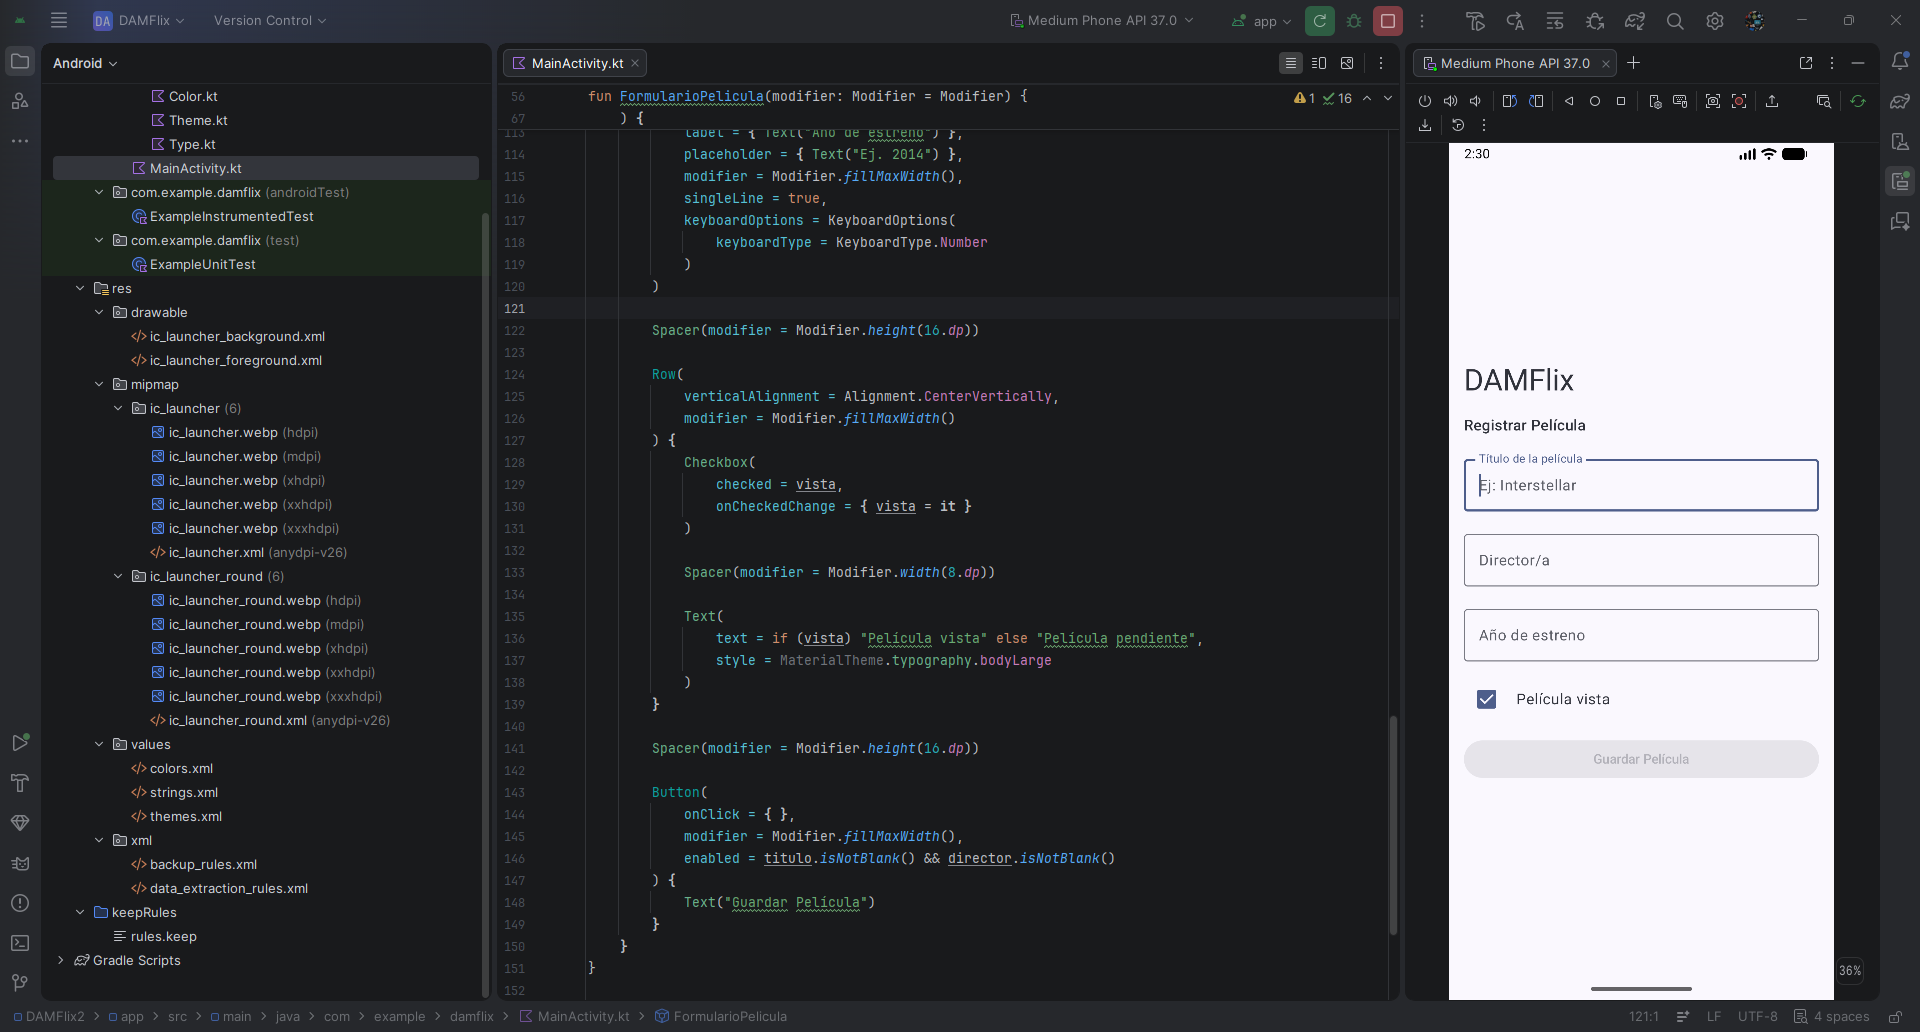
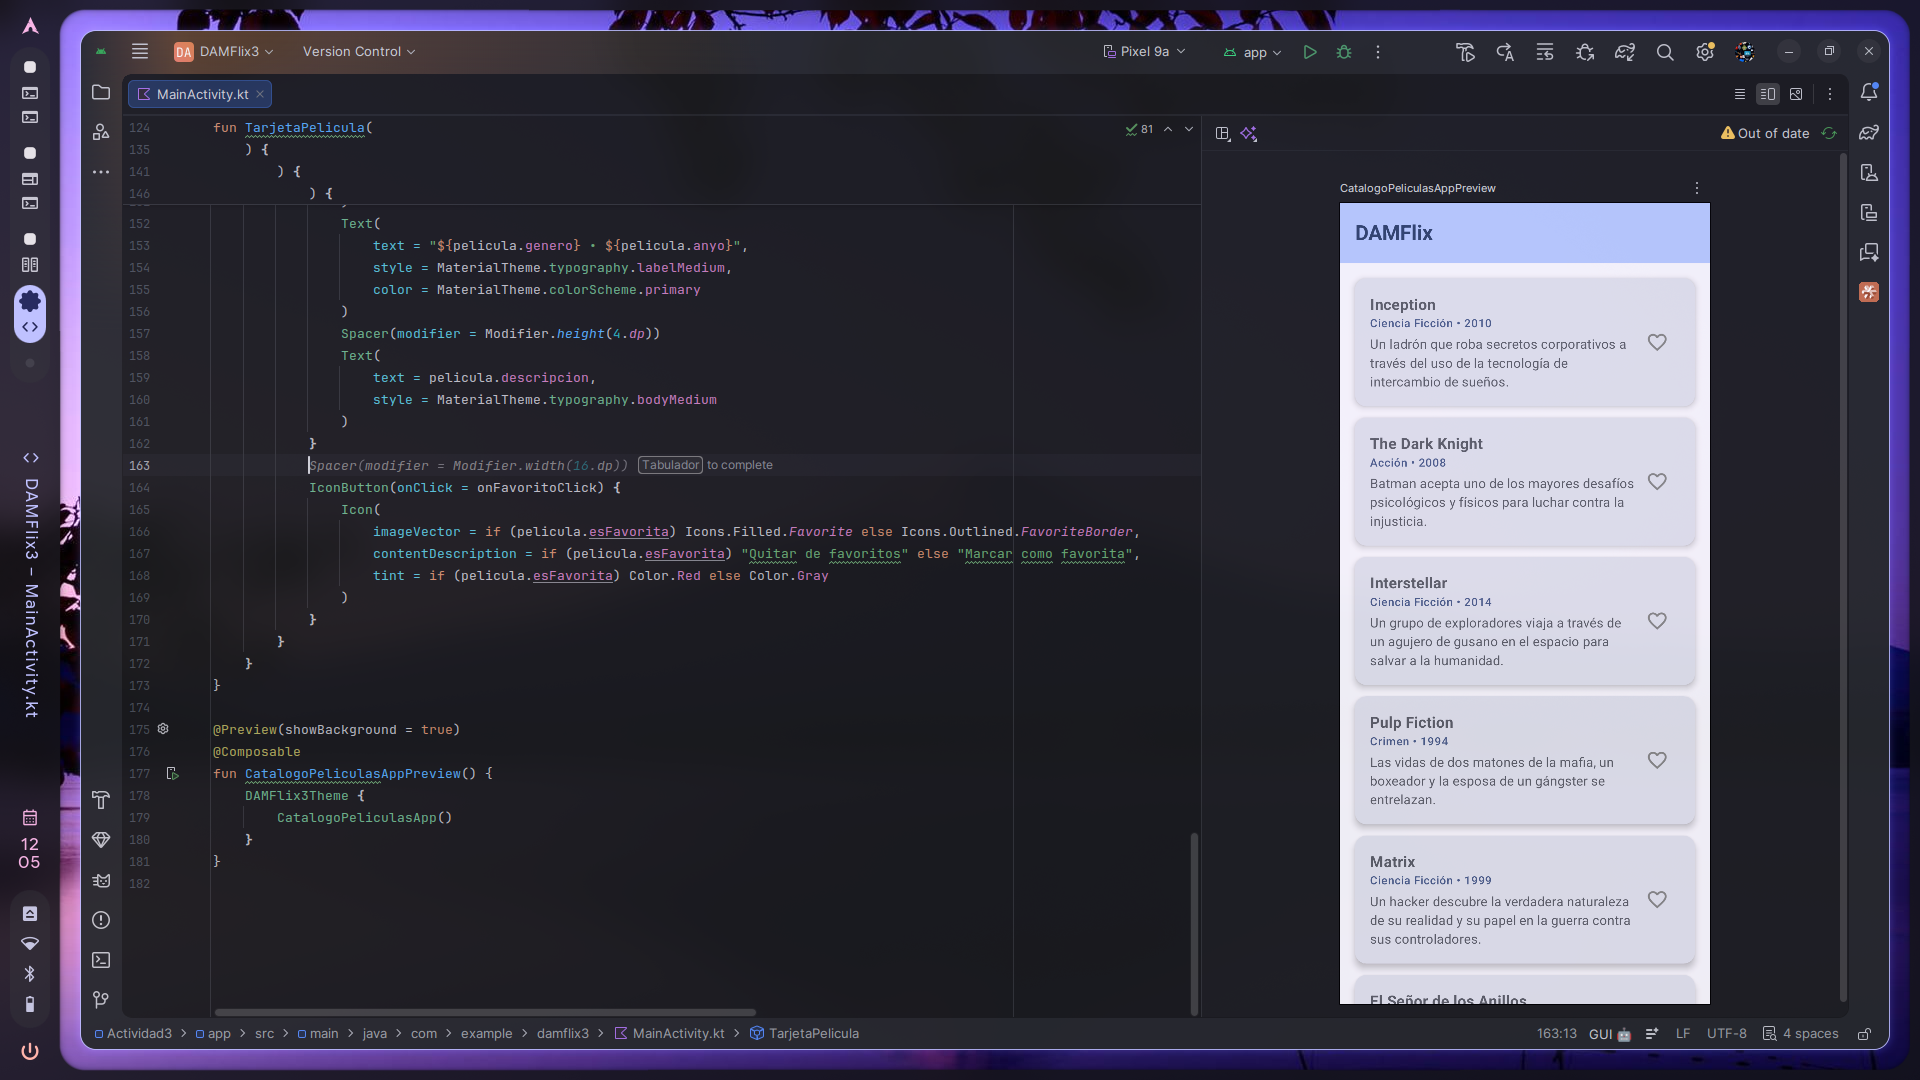
Parte 3: catálogo de películas con favoritos

diff --git a/app/src/main/java/com/example/damflix/MainActivity.kt b/app/src/main/java/com/example/damflix/MainActivity.kt
@@ -6,154 +6,176 @@ import androidx.activity.compose.setContent
 import androidx.activity.enableEdgeToEdge
 import androidx.compose.foundation.layout.Arrangement
 import androidx.compose.foundation.layout.Column
+import androidx.compose.foundation.layout.PaddingValues
 import androidx.compose.foundation.layout.Row
 import androidx.compose.foundation.layout.Spacer
 import androidx.compose.foundation.layout.fillMaxSize
 import androidx.compose.foundation.layout.fillMaxWidth
 import androidx.compose.foundation.layout.height
 import androidx.compose.foundation.layout.padding
-import androidx.compose.foundation.layout.width
-import androidx.compose.foundation.text.KeyboardOptions
-import androidx.compose.material3.Button
-import androidx.compose.material3.Checkbox
+import androidx.compose.foundation.lazy.LazyColumn
+import androidx.compose.foundation.lazy.items
+import androidx.compose.material.icons.Icons
+import androidx.compose.material.icons.filled.Favorite
+import androidx.compose.material.icons.outlined.FavoriteBorder
+import androidx.compose.material3.Card
+import androidx.compose.material3.CardDefaults
+import androidx.compose.material3.ExperimentalMaterial3Api
+import androidx.compose.material3.Icon
+import androidx.compose.material3.IconButton
 import androidx.compose.material3.MaterialTheme
-import androidx.compose.material3.MaterialTheme.typography
-import androidx.compose.material3.OutlinedTextField
 import androidx.compose.material3.Scaffold
 import androidx.compose.material3.Text
+import androidx.compose.material3.TopAppBar
+import androidx.compose.material3.TopAppBarDefaults
 import androidx.compose.runtime.Composable
-import androidx.compose.runtime.getValue
-import androidx.compose.runtime.mutableStateOf
+import androidx.compose.runtime.mutableStateListOf
 import androidx.compose.runtime.remember
-import androidx.compose.runtime.setValue
 import androidx.compose.ui.Alignment
 import androidx.compose.ui.Modifier
-import androidx.compose.ui.text.input.KeyboardType
+import androidx.compose.ui.graphics.Color
+import androidx.compose.ui.text.font.FontWeight
 import androidx.compose.ui.tooling.preview.Preview
 import androidx.compose.ui.unit.dp
 import com.example.damflix.ui.theme.DAMFlixTheme
+
+data class Pelicula(
+    val id: Int,
+    val titulo: String,
+    val genero: String,
+    val anyo: Int,
+    val descripcion: String,
+    var esFavorita: Boolean = false
+)
 
 class MainActivity : ComponentActivity() {
     override fun onCreate(savedInstanceState: Bundle?) {
         super.onCreate(savedInstanceState)
         enableEdgeToEdge()
-
         setContent {
             DAMFlixTheme {
-                Scaffold(
-                    modifier = Modifier.fillMaxSize()
-                ) { innerPadding ->
-                    FormularioPelicula(
-                        modifier = Modifier.padding(innerPadding)
-                    )
-                }
+                CatalogoPeliculasApp()
             }
         }
     }
 }
 
+@OptIn(ExperimentalMaterial3Api::class)
 @Composable
-fun FormularioPelicula(modifier: Modifier = Modifier) {
-    var titulo by remember { mutableStateOf("") }
-    var director by remember { mutableStateOf("") }
-    var anio by remember { mutableStateOf("") }
-    var vista by remember { mutableStateOf(false) }
-
-    Column(
-        modifier = modifier
-            .fillMaxSize()
-            .padding(16.dp),
-        verticalArrangement = Arrangement.Center
-    ) {
-        Text(
-            text = "DAMFlix",
-            style = typography.headlineLarge
+fun CatalogoPeliculasApp() {
+    val listaPeliculas = remember {
+        mutableStateListOf(
+            Pelicula(1, "Inception", "Ciencia Ficción", 2010, "Un ladrón que roba secretos corporativos a través del uso de la tecnología de intercambio de sueños."),
+            Pelicula(2, "The Dark Knight", "Acción", 2008, "Batman acepta uno de los mayores desafíos psicológicos y físicos para luchar contra la injusticia."),
+            Pelicula(3, "Interstellar", "Ciencia Ficción", 2014, "Un grupo de exploradores viaja a través de un agujero de gusano en el espacio para salvar a la humanidad."),
+            Pelicula(4, "Pulp Fiction", "Crimen", 1994, "Las vidas de dos matones de la mafia, un boxeador y la esposa de un gángster se entrelazan."),
+            Pelicula(5, "Matrix", "Ciencia Ficción", 1999, "Un hacker descubre la verdadera naturaleza de su realidad y su papel en la guerra contra sus controladores."),
+            Pelicula(6, "El Señor de los Anillos", "Fantasía", 2003, "Gandalf y Aragorn lideran el mundo de los hombres contra el ejército de Sauron."),
+            Pelicula(7, "Gladiator", "Acción", 2000, "Un antiguo general romano busca venganza contra el corrupto emperador que asesinó a su familia."),
+            Pelicula(8, "Avatar", "Ciencia Ficción", 2009, "Un marine parapléjico enviado al planeta Pandora se debate entre seguir órdenes o proteger su nuevo hogar.")
         )
+    }
 
-        Spacer(modifier = Modifier.height(16.dp))
-
-        Text(
-            text = "Registrar Película",
-            style = typography.titleMedium
-        )
-
-        Spacer(modifier = Modifier.height(16.dp))
-
-        OutlinedTextField(
-            value = titulo,
-            onValueChange = { titulo = it },
-            label = { Text("Título de la película") },
-            placeholder = { Text("Ej: Interstellar") },
-            modifier = Modifier.fillMaxWidth(),
-            singleLine = true
-        )
-
-        Spacer(modifier = Modifier.height(16.dp))
-
-        OutlinedTextField(
-            value = director,
-            onValueChange = { director = it },
-            label = { Text("Director/a") },
-            placeholder = { Text("Ej: Christopher Nolan") },
-            modifier = Modifier.fillMaxWidth(),
-            singleLine = true
-        )
-
-        Spacer(modifier = Modifier.height(16.dp))
-
-        OutlinedTextField(
-            value = anio,
-            onValueChange = { nuevoValor ->
-                if (nuevoValor.all { it.isDigit() } &&
-                    nuevoValor.length <= 4
-                ) {
-                    anio = nuevoValor
-                }
-            },
-            label = { Text("Año de estreno") },
-            placeholder = { Text("Ej. 2014") },
-            modifier = Modifier.fillMaxWidth(),
-            singleLine = true,
-            keyboardOptions = KeyboardOptions(
-                keyboardType = KeyboardType.Number
-            )
-        )
-
-        Spacer(modifier = Modifier.height(16.dp))
-
-        Row(
-            verticalAlignment = Alignment.CenterVertically,
-            modifier = Modifier.fillMaxWidth()
-        ) {
-            Checkbox(
-                checked = vista,
-                onCheckedChange = { vista = it }
-            )
-
-            Spacer(modifier = Modifier.width(8.dp))
-
-            Text(
-                text = if (vista) "Película vista" else "Película pendiente",
-                style = MaterialTheme.typography.bodyLarge
+    Scaffold(
+        topBar = {
+            TopAppBar(
+                title = {
+                    Text(
+                        text = "DAMFlix",
+                        fontWeight = FontWeight.Bold
+                    )
+                },
+                colors = TopAppBarDefaults.topAppBarColors(
+                    containerColor = MaterialTheme.colorScheme.primaryContainer,
+                    titleContentColor = MaterialTheme.colorScheme.onPrimaryContainer
+                )
             )
         }
-
-        Spacer(modifier = Modifier.height(16.dp))
-
-        Button(
-            onClick = { },
-            modifier = Modifier.fillMaxWidth(),
-            enabled = titulo.isNotBlank() && director.isNotBlank()
+    ) { paddingValores ->
+        LazyColumn(
+            modifier = Modifier
+                .fillMaxSize()
+                .padding(paddingValores),
+            contentPadding = PaddingValues(16.dp),
+            verticalArrangement = Arrangement.spacedBy(12.dp)
         ) {
-            Text("Guardar Película")
+            items(
+                items = listaPeliculas,
+                key = { pelicula -> pelicula.id }
+            ) { pelicula ->
+                TarjetaPelicula(
+                    pelicula = pelicula,
+                    onFavoritoClick = {
+                        val index = listaPeliculas.indexOfFirst { it.id == pelicula.id }
+                        if (index != -1) {
+                            listaPeliculas[index] = listaPeliculas[index].copy(
+                                esFavorita = !listaPeliculas[index].esFavorita
+                            )
+                        }
+                    }
+                )
+            }
+        }
+    }
+}
+
+
+@Composable
+fun TarjetaPelicula(
+    pelicula: Pelicula,
+    onFavoritoClick: () -> Unit,
+    modifier: Modifier = Modifier
+) {
+    Card(
+        modifier = modifier.fillMaxWidth(),
+        elevation = CardDefaults.cardElevation(defaultElevation = 4.dp),
+        colors = CardDefaults.cardColors(
+            containerColor = MaterialTheme.colorScheme.surfaceVariant
+        )
+    ) {
+        Row(
+            modifier = Modifier
+                .fillMaxWidth()
+                .padding(16.dp),
+            verticalAlignment = Alignment.CenterVertically
+        ) {
+
+
+            Column(
+                modifier = Modifier.weight(1f)
+            ) {
+                Text(
+                    text = pelicula.titulo,
+                    style = MaterialTheme.typography.titleMedium,
+                    fontWeight = FontWeight.Bold
+                )
+                Text(
+                    text = "${pelicula.genero} • ${pelicula.anyo}",
+                    style = MaterialTheme.typography.labelMedium,
+                    color = MaterialTheme.colorScheme.primary
+                )
+                Spacer(modifier = Modifier.height(4.dp))
+                Text(
+                    text = pelicula.descripcion,
+                    style = MaterialTheme.typography.bodyMedium
+                )
+            }
+
+            IconButton(onClick = onFavoritoClick) {
+                Icon(
+                    imageVector = if (pelicula.esFavorita) Icons.Filled.Favorite else Icons.Outlined.FavoriteBorder,
+                    contentDescription = if (pelicula.esFavorita) "Quitar de favoritos" else "Marcar como favorita",
+                    tint = if (pelicula.esFavorita) Color.Red else Color.Gray
+                )
+            }
         }
     }
 }
 
 @Preview(showBackground = true)
 @Composable
-fun FormularioPeliculaPreview() {
+fun CatalogoPeliculasAppPreview() {
     DAMFlixTheme {
-        FormularioPelicula()
+        CatalogoPeliculasApp()
     }
 }

diff --git a/README.md b/README.md
@@ -1,38 +1,41 @@
-# DAMFlix — Parte 2: Registrar Película
+# DAMFlix — Parte 3: Catálogo de Películas
 
-Formulario para registrar una película, hecho con **Jetpack Compose** (Kotlin) para Android.
+Catálogo de películas en lista con opción de marcar favoritas, hecho con **Jetpack Compose** (Kotlin) para Android.
 
-> Esta rama (`parte2`) contiene la segunda actividad del proyecto.
-> La primera actividad (pantalla de perfil de usuario) está en la rama [`main`](https://github.com/Haise232/DAMFlix/tree/main).
+> Esta rama (`parte3`) contiene la tercera actividad del proyecto.
+> - La primera actividad (pantalla de perfil de usuario) está en la rama [`main`](https://github.com/Haise232/DAMFlix/tree/main).
+> - La segunda actividad (formulario Registrar Película) está en la rama [`parte2`](https://github.com/Haise232/DAMFlix/tree/parte2).
 
 ## Captura
 
-![Captura de DAMFlix - Registrar Película](docs/Captura%20Proyecto.png)
+![Captura de DAMFlix - Catálogo de Películas](docs/Captura%20Proyecto.png)
 
 ## Qué hace
 
-- **Campos de texto** (`OutlinedTextField`) con etiqueta y placeholder para:
-  - Título de la película
-  - Director/a
-  - Año de estreno
-- **Validación del año:** solo admite dígitos y un máximo de 4 caracteres, y abre el teclado numérico (`KeyboardType.Number`).
-- **Checkbox "vista":** el texto cambia dinámicamente entre *Película vista* y *Película pendiente*.
-- **Botón "Guardar Película":** solo se habilita cuando el título y el director no están vacíos.
-- **Estado con Compose:** cada campo guarda su valor con `remember { mutableStateOf(...) }`.
+- **Barra superior** (`TopAppBar`) con el título *DAMFlix* sobre el color `primaryContainer` del tema.
+- **Lista eficiente** con `LazyColumn`: solo se dibujan las tarjetas visibles en pantalla, con separación entre ellas (`Arrangement.spacedBy`).
+- **Modelo de datos** `Pelicula` (`data class`) con id, título, género, año, descripción y si es favorita.
+- **Tarjeta por película** (`Card`) con título, género y año, y una breve descripción.
+- **Botón de favorito** (`IconButton`): alterna entre corazón vacío gris (`FavoriteBorder`) y corazón relleno rojo (`Favorite`).
+- **Estado con Compose:** la lista se guarda con `remember { mutableStateListOf(...) }` y, al pulsar el corazón, se sustituye la película por una copia (`copy(esFavorita = ...)`) para que Compose recomponga la tarjeta.
+- **Claves estables** en `items(key = { it.id })` para que Compose identifique cada elemento de la lista.
 
 ## Estructura del código
 
-| Composable | Función |
+| Elemento | Función |
 |---|---|
-| `MainActivity` | Carga el tema `DAMFlixTheme` y un `Scaffold` con el formulario |
-| `FormularioPelicula()` | Formulario completo: campos, checkbox y botón |
-| `FormularioPeliculaPreview()` | Vista previa en Android Studio |
+| `Pelicula` | `data class` con los datos de cada película |
+| `MainActivity` | Carga el tema `DAMFlixTheme` y la app del catálogo |
+| `CatalogoPeliculasApp()` | `Scaffold` con la `TopAppBar` y la `LazyColumn` de películas; gestiona el estado de favoritos |
+| `TarjetaPelicula()` | Tarjeta de una película con su información y el botón de favorito |
+| `CatalogoPeliculasAppPreview()` | Vista previa en Android Studio |
 
 ## Tecnologías
 
 - Kotlin
 - Jetpack Compose
 - Material 3
+- Material Icons (`material-icons-core` y `material-icons-extended`)
 
 ## Cómo ejecutarlo
 
@@ -40,7 +43,7 @@ Formulario para registrar una película, hecho con **Jetpack Compose** (Kotlin) 
    ```bash
    git clone https://github.com/Haise232/DAMFlix.git
    cd DAMFlix
-   git checkout parte2
+   git checkout parte3
    ```
 2. Ábrelo con Android Studio.
 3. Espera a que termine la sincronización de Gradle.
